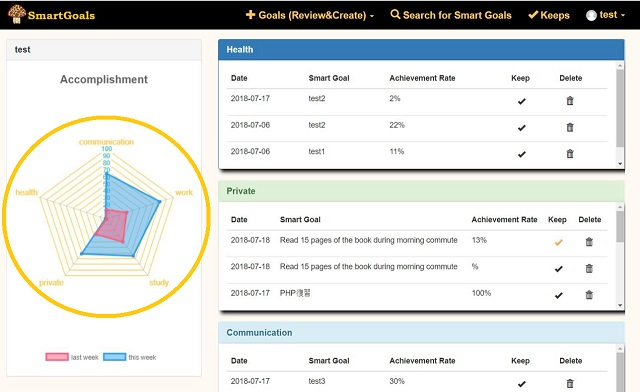
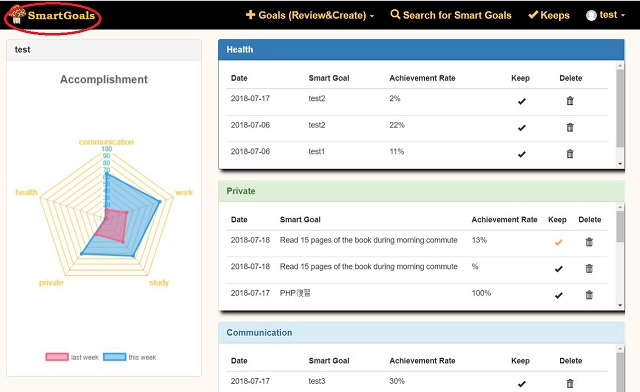
howtouse

diff --git a/public/css/style.css b/public/css/style.css
@@ -251,6 +251,12 @@ a.jet {
   background-color: #cbcb00;
   font-size: 15px;
 }
+
+.button-sho {
+  background-color:#D29E04;
+  font-size: 15px;
+  
+}
 /*レビューテンプレートのページのボタン*/
 .button-showw{
  background-color: #f3bf88; 
@@ -360,18 +366,6 @@ a.jet {
   font-size:21px;
 }
 
-/*初めての方は　と　２回目以降の方は*/
-.Judy{
-   margin: 15 20px;
-  line-height: 37px;
-  font-size:30px;
-  color: #999999;
- text-shadow:
-  -1px -1px 0px #eee,
-   1px -1px 0px #5c5c5c,
-   1px  1px 0px #5c5c5c,
-  -1px  1px 0px #5c5c5c;
-}
 
 
 

diff --git a/resources/views/users/howto.blade.php b/resources/views/users/howto.blade.php
@@ -4,26 +4,31 @@
 <div class='top'>
     <div class="skills">
         <div class="skills-wrapper">
+             
             <section  id="howtouse">
                 <h2 class="heading">HOW TO USE</h2>
-                <h3 class="Judy"><strong>初めての方はこちら</strong></h3>
+                 <div class="buttons">
+                    <a class="button button-sho" href="#howtouse">BASIC</a>
+                    <a class="button button-sho" href="#search">SEARCH</a>
+                    <a class="button button-sho" href="#keep">KEEP</a>
+                    <a class="button button-sho" href="#kinoko">KINOKO</a>
+                 </div>
                 <div class="skill-box">
                     <img src="{{ secure_asset("images/Step0.png") }}" alt="howtouse">
                 </div>
                 <div class="skill-box">  
                     <div class="skill-title">STEP0. REGISTER</div>
                         <p class="skill-text">
-                        まずSmart Goalを登録しましょう。<br>
+                        まずSmart Goalを登録、<br>
                         目標達成してきのこを集めよう！<br>
                         </p>
                 </div>
             </section>
             <section>　　　
-            <h3 class="Judy"><strong>2回目以降の方はこちら</strong></h3>
                 <div class="skill-box">  
                     <div class="skill-title">STEP1. REVIEW</div>
                         <p class="skill-text">
-                        Smart Goalを振り返り
+                        Smart Goalを振り返り<br>
                         達成率などを入力<br>
                         出力されたテンプレートで日報を作成しましょう！
                         </p>
@@ -39,8 +44,8 @@
             <div class="skill-box">  
                 <div class="skill-title">STEP2. CHECK</div>
                     <p class="skill-text">
-                    過去の達成度と同期のSmartGoalを参考に<br>
-                    次のSmart Goalを考えよう！
+                    左上のロゴをクリックしてMy Statusへ!<br>
+                    達成度や過去のSmart Goalをチェック!
                     </p>
             </div>
             </section>
@@ -55,6 +60,41 @@
             <div class="skill-box">
                 <img src="{{ secure_asset("images/Step3.png") }}" alt="howtouse">
             </div>
+            </section>
+            <section  id="search">
+                 <div class="skill-box">
+                    <img src="{{ secure_asset("images/search.png") }}" alt="howtouse">
+                </div>
+                <div class="skill-box">  
+                    <div class="skill-title">SEARCH</div>
+                        <p class="skill-text">
+                            🔍Search for Smart Goalsで<br>
+                            他のユーザーのSmart Goalを<br>
+                            絞り込み検索！<br>
+                        </p>
+                    </div>
+            </section>
+            <section  id="keep">
+                 <div class="skill-box">  
+                    <div class="skill-title">KEEP</div>
+                        <p class="skill-text">
+                            ✔ボタンで他のユーザーの<br>Smart Goalをkeep!<br>
+                            Smart Goal作成の際に<br>参照できます
+                        </p>
+                    </div>
+                <div class="skill-box">
+                    <img src="{{ secure_asset("images/keep.png") }}" alt="howtouse">
+                </div>
+            </section>
+            <section  id="kinoko">
+                <div class="skill-box">
+                    <img src="{{ secure_asset("images/") }}" alt="howtouse">
+                </div>
+                <div class="skill-box">  
+                    <div class="skill-title"></div>
+                        <p class="skill-text">
+                        </p>
+                </div>
             </section>
         </div>
     </div>

diff --git a/resources/views/welcome.blade.php b/resources/views/welcome.blade.php
@@ -17,7 +17,6 @@
         <div class="skills-wrapper">
             <section  id="howtouse">
                 <h2 class="heading">HOW TO USE</h2>
-                <h3 class="Judy"><strong>初めての方はこちら</strong></h3>
                 <div class="skill-box">
                     <img src="{{ secure_asset("images/Step0.png") }}" alt="howtouse">
                 </div>
@@ -30,7 +29,6 @@
                 </div>
             </section>
             <section>　　　
-            <h3 class="Judy"><strong>2回目以降の方はこちら</strong></h3>
                 <div class="skill-box">  
                     <div class="skill-title">STEP1. REVIEW</div>
                         <p class="skill-text">
